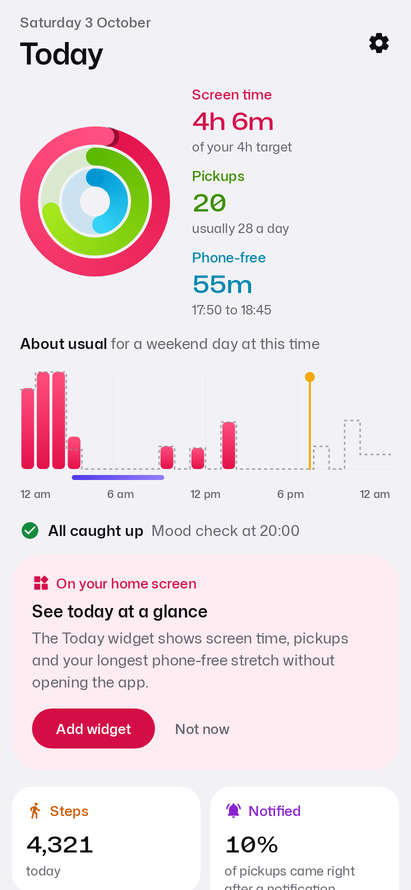
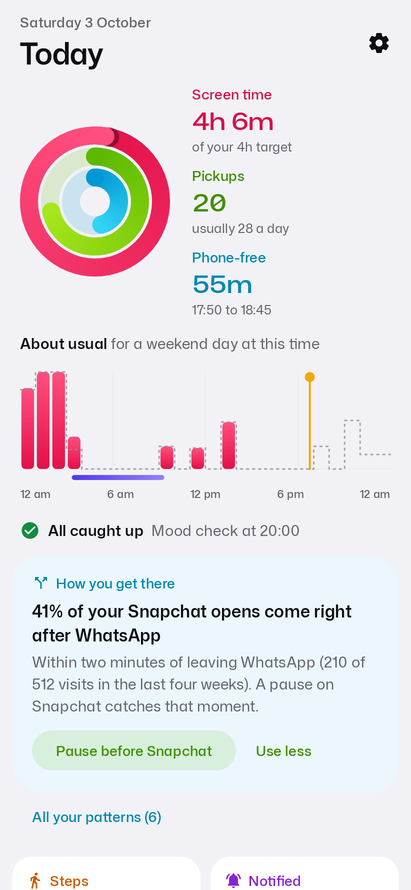
docs: README for 2.2 (Your patterns, How it hooks you, Is it working?) and refreshed screenshots
Claude-Session: https://claude.ai/code/session_01Bwye9uu27nUsAm68HhJaTK

Changed region(s): [[0.0584, 0.6371, 0.9051, 1.0], [0.0584, 0.9101, 0.4088, 1.0], [0.6131, 0.8191, 0.7591, 0.8494]]

diff --git a/README.md b/README.md
@@ -5,9 +5,9 @@
 [![License](https://img.shields.io/badge/License-MIT-blue.svg)](LICENSE)
 [![Kotlin](https://img.shields.io/badge/Kotlin-2.3-purple.svg)](https://kotlinlang.org/)
 [![Android](https://img.shields.io/badge/Android-8.0%2B-green.svg)](https://developer.android.com/)
-[![Version](https://img.shields.io/badge/Version-2.1-blue.svg)](#-whats-new-in-extended)
+[![Version](https://img.shields.io/badge/Version-2.2-blue.svg)](#-whats-new-in-extended)
 
-HabitMiner Extended is the next version of [HabitMiner](README_OLD.md). It installs as its own app (**HM Extended**, `com.habitminer.extended`) next to the original, can bring the original's history across, and adds a redesigned interface, better sleep and nap tracking, goals, a long list of accuracy fixes found by using it every day, and (in 2.1) shorter daily loops: act on an insight in one tap, a mindful pause that tells you something, and a Today screen that ends.
+HabitMiner Extended is the next version of [HabitMiner](README_OLD.md). It installs as its own app (**HM Extended**, `com.habitminer.extended`) next to the original, can bring the original's history across, and adds a redesigned interface, better sleep and nap tracking, goals, a long list of accuracy fixes found by using it every day, shorter daily loops (2.1), and (in 2.2) **patterns**: what pulls you into your phone, what it costs you, and whether your changes are working.
 
 Everything stays on the phone. There is no account and no server; data leaves the device only when you export it.
 
@@ -18,6 +18,28 @@ Everything stays on the phone. There is no account and no server; data leaves th
 <p align="center">
   <img src="docs/screenshots/extended/overview.png" alt="HabitMiner Extended: Today, Sleep, Trends, Goals and Status" width="100%">
 </p>
+
+### New in 2.2: your patterns
+
+<table>
+  <tr>
+    <td align="center" valign="top" width="33%">
+      <img src="docs/screenshots/extended/trends_overview.png" alt="Your patterns" width="250"><br>
+      <b>Your patterns</b><br>
+      <sub>Where the time really goes, late nights and sleep, this week against last, notifications that pull you in, the app that leads into another. Each shows only when it holds for you.</sub>
+    </td>
+    <td align="center" valign="top" width="33%">
+      <img src="docs/screenshots/extended/app_hooks.png" alt="How it hooks you" width="250"><br>
+      <b>How it hooks you</b><br>
+      <sub>On every app's page: quick checks against long sessions and when those happen, what you were in right before, and where you go next.</sub>
+    </td>
+    <td align="center" valign="top" width="33%">
+      <img src="docs/screenshots/extended/goals_impact.png" alt="Is it working" width="250"><br>
+      <b>Is it working?</b><br>
+      <sub>For each Use less app: how often you closed it at the pause, and its daily time against your usual four weeks before. "Too early" until there are 5 days.</sub>
+    </td>
+  </tr>
+</table>
 
 ### New in 2.1
 
@@ -36,7 +58,7 @@ Everything stays on the phone. There is no account and no server; data leaves th
     <td align="center" valign="top" width="33%">
       <img src="docs/screenshots/extended/today_caught_up.png" alt="All caught up" width="250"><br>
       <b>All caught up</b><br>
-      <sub>When nothing needs an answer, one quiet line and the next check-in. Today now ends at about a screen and a half.</sub>
+      <sub>When nothing needs an answer, one quiet line, the next check-in, and one of your patterns. Today now ends at about a screen and a half.</sub>
     </td>
   </tr>
   <tr>
@@ -172,10 +194,11 @@ Everything stays on the phone. There is no account and no server; data leaves th
 - **Usual days**: every day is compared with up to four weeks of days of the same kind (weekday or weekend), using medians so a few odd days don't skew "usual". Today is compared at the same time of day.
 - **Changes** in both directions (total time, late nights, apps missing or spiking, unlocks, sleep) and routine changes over several days, which you can label (exams, travel, unwell, holiday) to keep them out of "usual".
 - **Next-app model** that learns from what usually follows the current app, the hour, recent apps, notifications, headphones and charging, with its hit rate measured against simple baselines.
+- **Your patterns**: long sessions, late nights and sleep, week-on-week changes, notifications that pull you in, and apps that lead into others, each shown only when it holds ([how they were checked](docs/FINDINGS.md)).
 - **Insight of the day**, **Weekly Story**, and context insights such as screen time in the dark or after midnight.
 
 **Acting on it**
-- **Goals**: a daily intention, a phone-time target, apps to use less or more with "N of the last 7 days" dots, and reminders when you're over.
+- **Goals**: a daily intention, a phone-time target, apps to use less or more with "N of the last 7 days" dots, whether each one is working, and reminders when you're over.
 - **One-tap pause** from insights, routines and app pages; **gentle nudges**, an optional **mindful pause** that shows how often you've opened the app, and **focus sessions** (both off by default), a home-screen **widget**, a **Quick Settings tile** and app **shortcuts**.
 - **Quick check-ins** and **Expected / Unusual** answers are saved as ground-truth labels, with the context at the time.
 
@@ -187,6 +210,20 @@ Everything stays on the phone. There is no account and no server; data leaves th
 ---
 
 ## 🆕 What's new in Extended
+
+### 2.2: from reporting to findings
+Screen time, pickups and per-app time are what Android's Digital Wellbeing already shows. 2.2 adds what it can't: patterns that connect time of day, app order, notifications and sleep, found in your own data.
+- **Your patterns** (Trends → Overview, and one on Today once you're caught up):
+  - **Where the time goes**: when a few long sessions (15+ min) make up most of an app's time, and when they happen.
+  - **Late weekday nights and sleep**: how much less you sleep on weekday nights you go to bed late (weekends are left out, because sleeping in hides the effect).
+  - **This week vs the week before**, in total and for the apps that changed most.
+  - **Notifications that pull you in**: only for apps where a notification leads to a long session at least twice as often as usual.
+  - **How you get there**: a social, video or game app you mostly open right after another app.
+  - **Checking all day**, **last night's longest late session**, and **a run of quiet nights**; plus "busiest hours" and "first app of the morning", shown only when they're clear.
+- **Act on it in place**: a pause on that app (only after a set time at night when the long sessions are late), the app's notification settings, or your nights on Sleep.
+- **How it hooks you** on each app's page: quick checks vs long sessions, what comes right before, first app after unlocking, and where you go next.
+- **Is it working?** on Goals for each Use less app: pauses closed vs opened anyway, and daily time against the four weeks before, leaving out the unusual day that usually prompts a goal.
+- Every pattern was checked on two real exports before it was built; what held up, what was dropped and why is in [docs/FINDINGS.md](docs/FINDINGS.md).
 
 ### 2.1: shorter daily loops
 - **Insight → action**: insights and differences about using one app more, each routine in Trends → Routines, and every app's detail page offer **Pause before opening** or **Use less** in one tap. Apps already on your list show "Pause on before Instagram" with an Edit link instead of the same buttons again, and if Android's Accessibility switch for the pause is off, the button takes you there.
